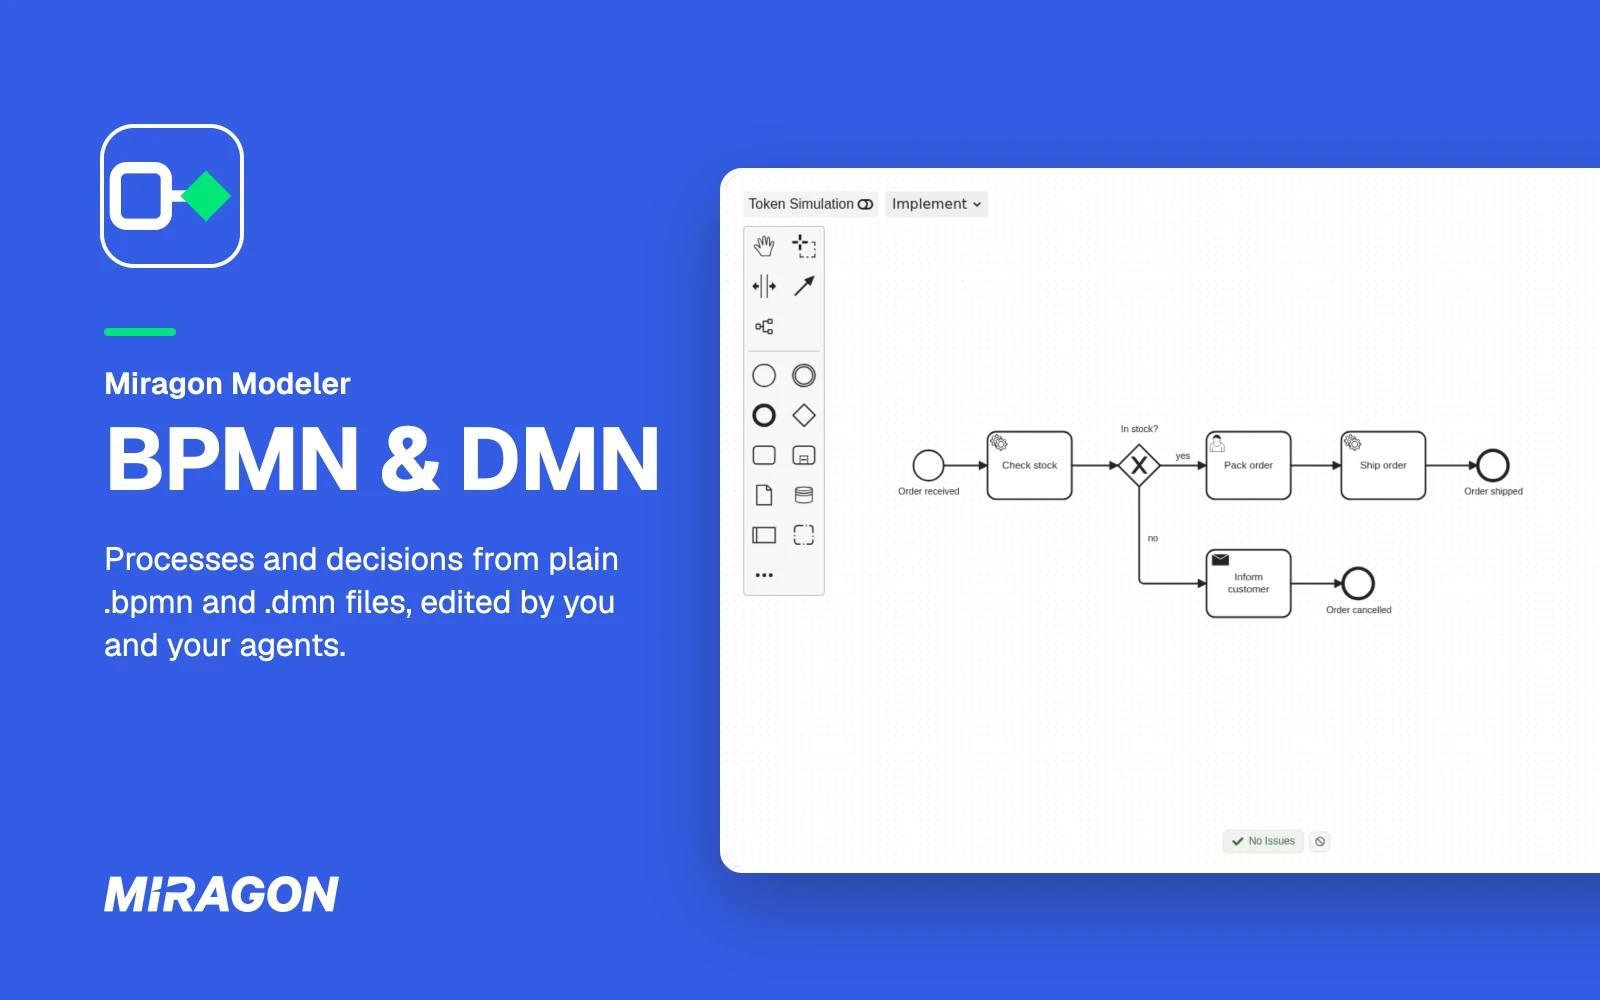
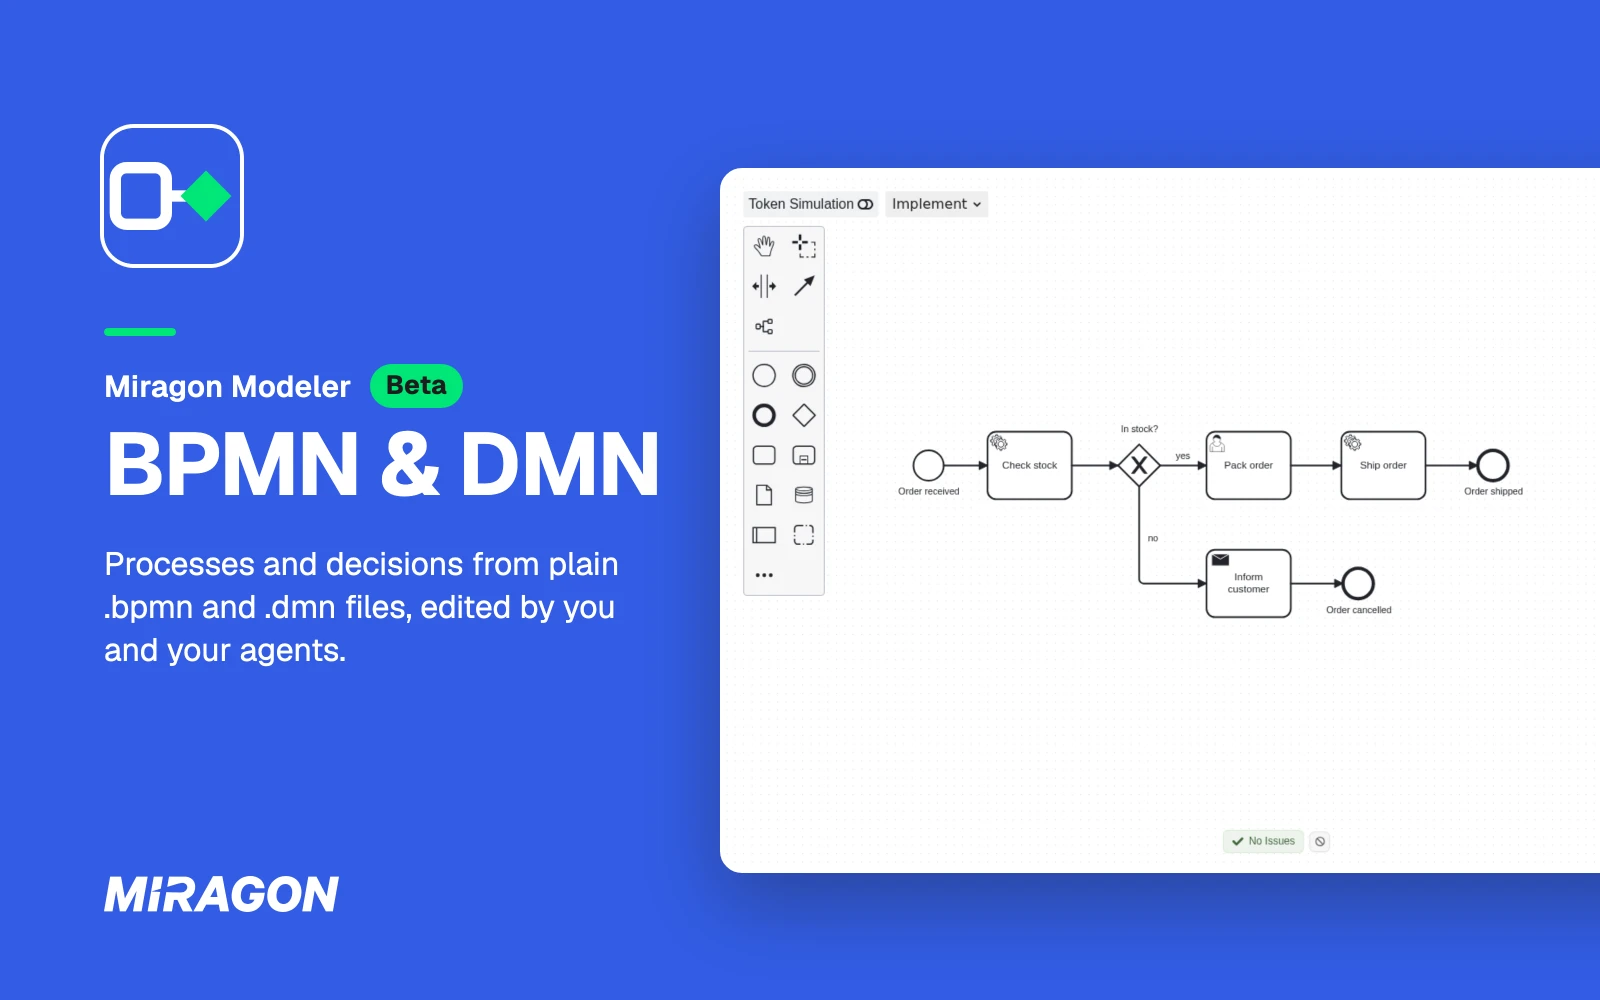
docs(orca-plugin): show a beta badge on the cover in Orca's plugin directory
The cover names the plugin a beta next to its label, and its alt text says so too. Only the cover is rendered again (listing-images --skip-shots); the four screenshots stay byte for byte.

Changed region(s): [[0.0625, 0.527, 0.4062, 0.682], [0.0625, 0.341, 0.4062, 0.496]]

diff --git a/apps/orca-plugin/scripts/listing-images/cover.html b/apps/orca-plugin/scripts/listing-images/cover.html
@@ -45,9 +45,20 @@
                 background: #00e676;
             }
             .label {
+                display: flex;
+                align-items: center;
+                gap: 18px;
                 font-size: 30px;
                 font-weight: 600;
                 letter-spacing: 0.01em;
+            }
+            .badge {
+                padding: 4px 16px 6px;
+                border-radius: 999px;
+                background: #00e676;
+                color: #1d1d1d;
+                font-size: 26px;
+                font-weight: 700;
             }
             h1 {
                 margin-top: 12px;
@@ -84,7 +95,7 @@
         <div class="copy">
             <img class="icon" src="__ICON__" alt="" />
             <div class="accent"></div>
-            <div class="label">Miragon Modeler</div>
+            <div class="label">Miragon Modeler <span class="badge">Beta</span></div>
             <h1>__TITLE__</h1>
             <p class="claim">__CLAIM__</p>
         </div>
